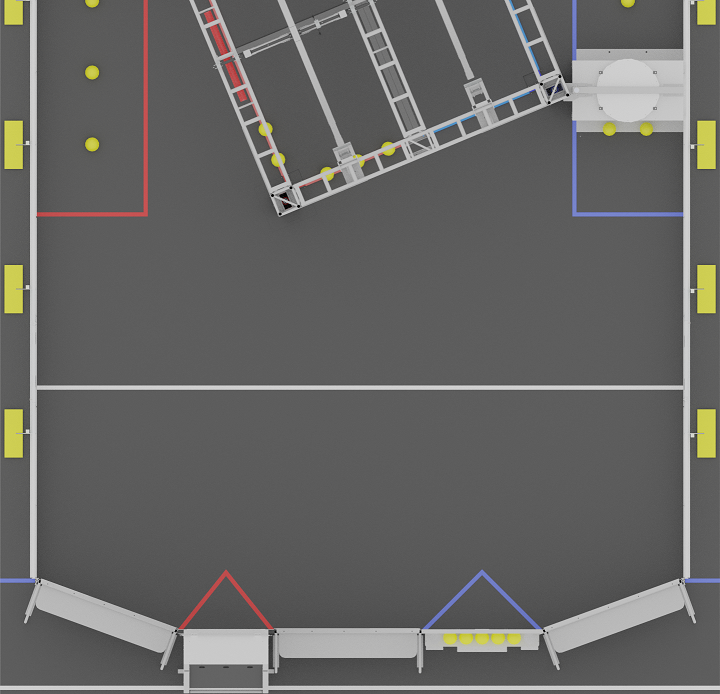
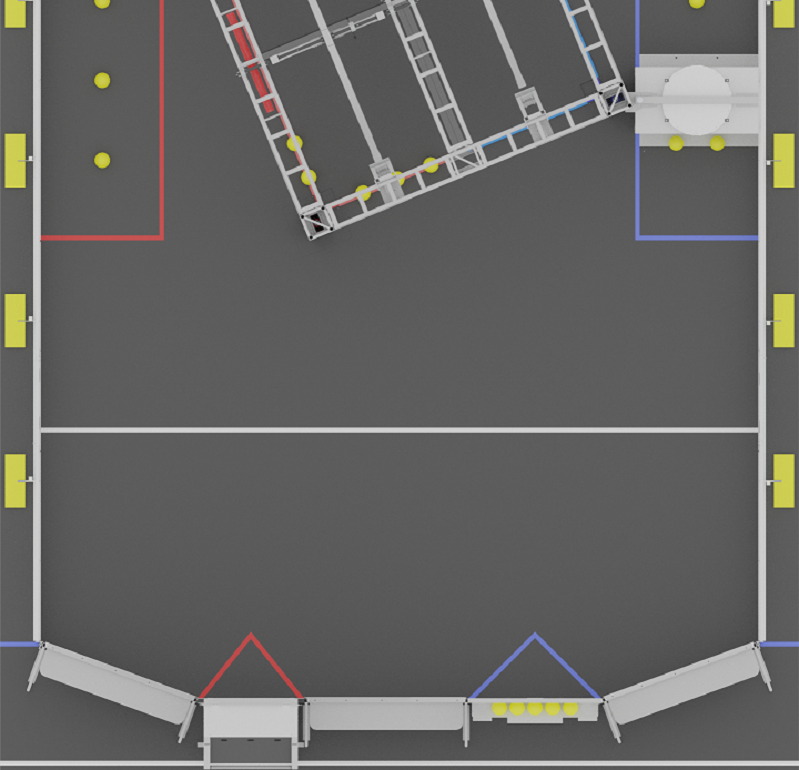
add mirror path option

diff --git a/src/main/java/gui/PathMaker.java b/src/main/java/gui/PathMaker.java
@@ -19,7 +19,7 @@ public class PathMaker extends JPanel implements Connectible {
 
     public PathMaker() {
         path = new LinkedList<>();
-        setSize(720, 694);
+        setSize(799, 770);
         addMouseListener(new ConnectionListener(this));
     }
 
@@ -86,6 +86,17 @@ public class PathMaker extends JPanel implements Connectible {
             double y = (waypoint.getX() - xoff) * Math.sin(radians) + (waypoint.getY() - yoff) * Math.cos(radians);
 
             temp.add(new Waypoint(x + xoff, y + yoff));
+        }
+
+        path = temp;
+        repaint();
+    }
+
+    public void mirrorPath() {
+        List<Waypoint> temp = new LinkedList<>();
+
+        for(Waypoint waypoint : path) {
+            temp.add(new Waypoint(7.99 - waypoint.getX(), waypoint.getY()));
         }
 
         path = temp;

diff --git a/src/main/java/gui/menus/PathMenuBar.java b/src/main/java/gui/menus/PathMenuBar.java
@@ -30,10 +30,15 @@ public class PathMenuBar extends JMenuBar {
         JMenu edit = new JMenu("Edit");
         edit.setMnemonic('E');
 
+        JMenuItem mirror = new JMenuItem("Mirror Path");
+        mirror.setMnemonic('M');
+        mirror.addActionListener(new MirrorListener(gui));
+
         JMenuItem rotate = new JMenuItem("Rotate Path");
         rotate.setMnemonic('R');
         rotate.addActionListener(new RotateListener(gui));
 
+        edit.add(mirror);
         edit.add(rotate);
         add(edit);
     }

diff --git a/src/main/java/gui/menus/MirrorListener.java b/src/main/java/gui/menus/MirrorListener.java
@@ -1,0 +1,22 @@
+package gui.menus;
+
+import gui.GUI;
+import gui.PathMaker;
+
+import java.awt.event.ActionEvent;
+import java.awt.event.ActionListener;
+
+public class MirrorListener implements ActionListener {
+    GUI gui;
+
+    public MirrorListener(GUI gui) {
+        this.gui = gui;
+    }
+
+    @Override
+    public void actionPerformed(ActionEvent actionEvent) {
+        if(gui.getContentPane() instanceof PathMaker) {
+            ((PathMaker)gui.getContentPane()).mirrorPath();
+        }
+    }
+}

diff --git a/src/main/java/gui/GUI.java b/src/main/java/gui/GUI.java
@@ -13,7 +13,7 @@ public class GUI extends JFrame {
 
     public static void main(String[] args) {
         GUI gui = new GUI();
-        gui.setPreferredSize(new Dimension(734, 754));
+        gui.setPreferredSize(new Dimension(814, 830));
         gui.setResizable(false);
         gui.pack();
         gui.setDefaultCloseOperation(JFrame.EXIT_ON_CLOSE);

diff --git a/src/main/java/gui/PathViewer.java b/src/main/java/gui/PathViewer.java
@@ -15,7 +15,7 @@ public class PathViewer extends JPanel {
 
     public PathViewer(java.nio.file.Path filepath) {
         path = Path.importFromCSV(filepath);
-        setSize(720, 694);
+        setSize(799, 770);
     }
 
     @Override
